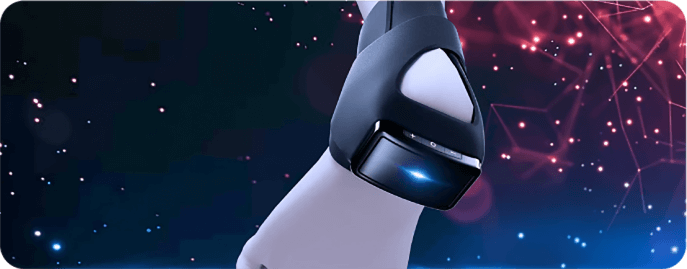
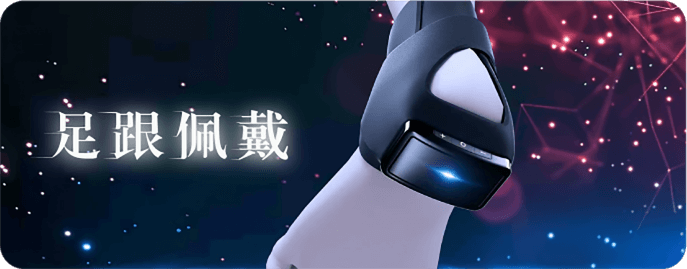
优化

diff --git a/page_subject/work/work.vue b/page_subject/work/work.vue
@@ -114,6 +114,7 @@
 				serviceId: '', // 连接的服务id
 				findingIndex: 0,
 				deviceIdList: [], // 检测列表
+				testName: '测试专用',
 				// deviceIdList: [],
 				connectList: [], // 连接列表
 				service_1: '0001FFE7-6865-6F6E-652D-7A732D717A10',
@@ -155,6 +156,11 @@
 					this.deviceIdList = [{
 						name: blue_class.getInstance().deviceName
 					}];
+				} else if (app.globalData.versionCode == 0) {
+					this.deviceIdList.push({
+						name: this.testName,
+						deviceId: 'deviceId'
+					});
 				}
 			}
 			uni.$on('xx', this.handleMessage)
@@ -548,6 +554,25 @@
 
 				let app = getApp();
 				let deviceId = item.deviceId;
+				if (app.globalData.versionCode == 0 && deviceId == 'deviceId') {
+					wx.showToast({
+						title: '连接成功',
+						icon: 'success',
+						duration: 1000
+					})
+					this.stopBlueTooth();
+					app.globalData.deviceId = deviceId;
+
+					blue_class.getInstance().deviceId = deviceId;
+					// 链接成功
+					blue_class.getInstance().loginSuccess = true;
+
+					console.log('connectBluetooth success!:', deviceId)
+					uni.switchTab({
+						url: "/pages/index/index"
+					})
+					return;
+				}
 				uni.createBLEConnection({
 					// 这里的 deviceId 需要已经通过 createBLEConnection 与对应设备建立链接
 					deviceId: deviceId,

diff --git a/page_subject/step/step.vue b/page_subject/step/step.vue
@@ -29,12 +29,15 @@
 		<view class="opt-part">
 			<view class="opt-btn opt-btn-top" @click="nextStepHandle">
 				<view>
-
 					<image class="ring2" :src="'../static/SMY_07_IconJJ.png'">></image>
 				</view>
 				<view>
-
 					<label>高级设置</label>
+				</view>
+			</view>
+			<view class="opt-btn opt-btn-top" @click="navIndexStepHandle">
+				<view>
+					<label>返回首页</label>
 				</view>
 			</view>
 		</view>
@@ -53,6 +56,11 @@
 			this.$set(this.menuStyle, '--menuButtonTop', (app.globalData.top + 50) + 'px');
 		},
 		methods: {
+			navIndexStepHandle() {
+				uni.switchTab({
+					url: "/pages/index/index"
+				})
+			},
 			nextStepHandle() {
 				console.log('nextStepHandle')
 				uni.navigateTo({
@@ -175,10 +183,12 @@
 
 		.opt-part {
 			display: flex;
-			justify-content: flex-start;
+			justify-content: space-between;
+
 			margin-top: 42rpx;
 			margin-bottom: 42rpx;
 			margin-left: 30rpx;
+			margin-right: 30rpx;
 
 			.opt-btn {
 				width: 184rpx;

diff --git a/pages/index/index.vue b/pages/index/index.vue
@@ -65,7 +65,8 @@
 			getappVersion({
 				appId: base.publicAppId
 			}).then(res => {
-
+				const app = getApp();
+				app.globalData.versionCode = res.versionCode;
 			})
 
 			// let name = '平补平泻.qzd';